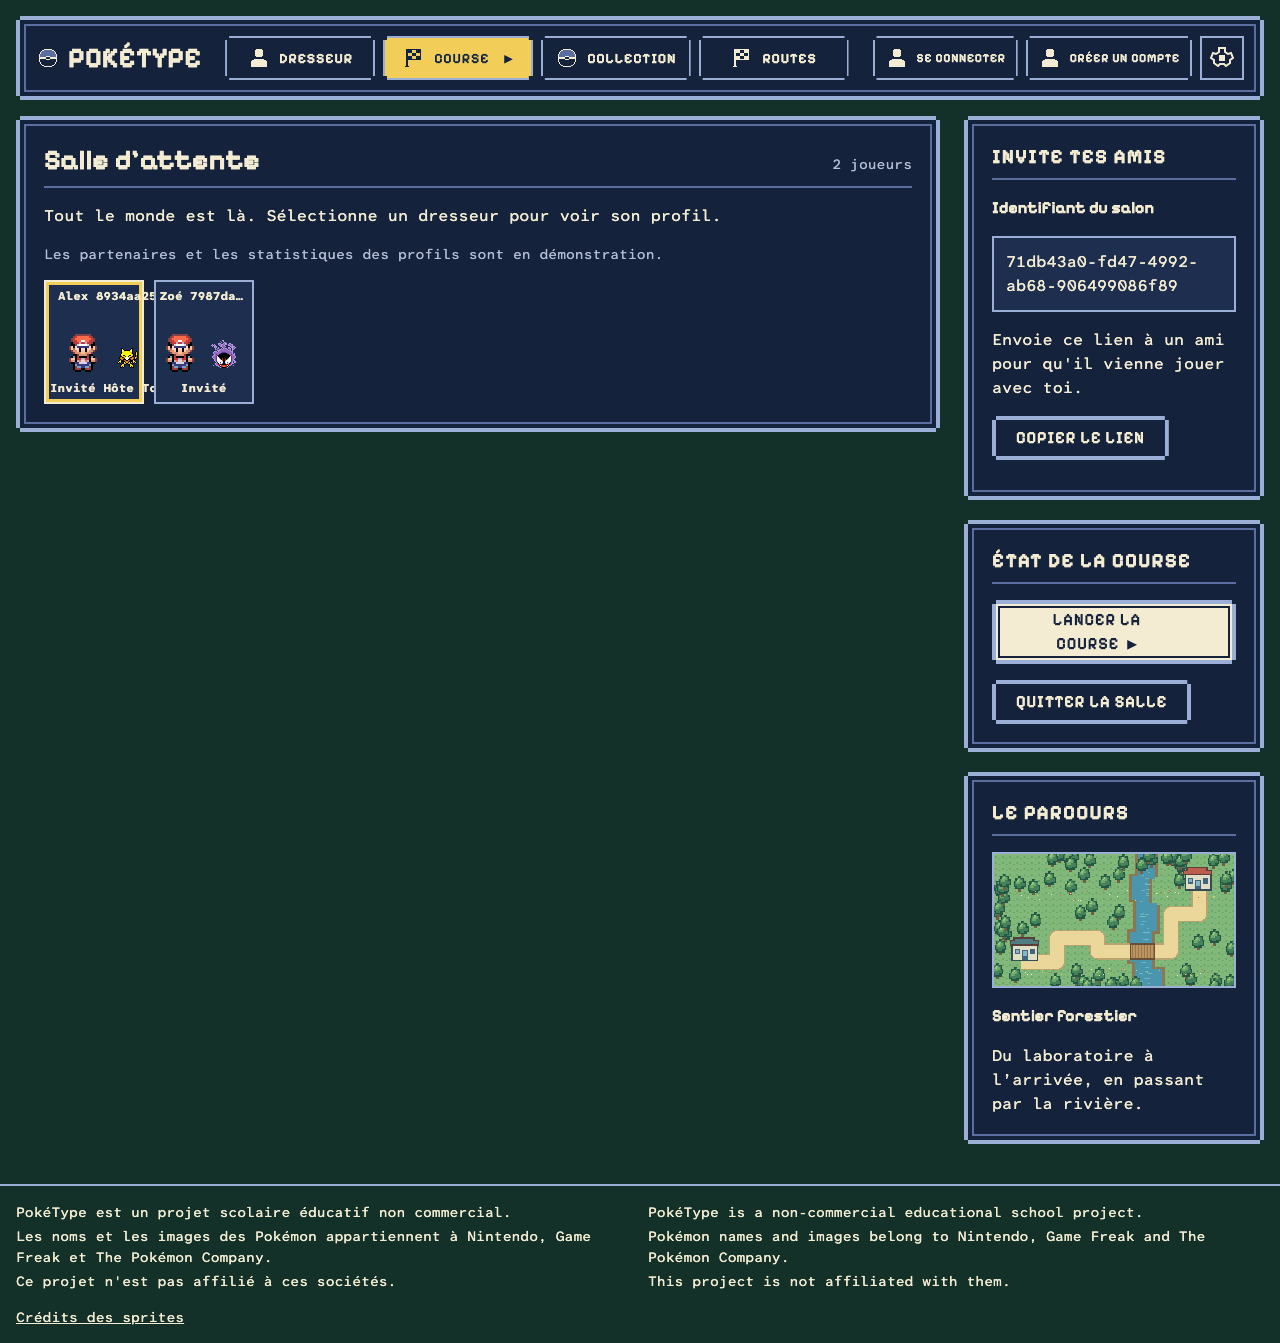
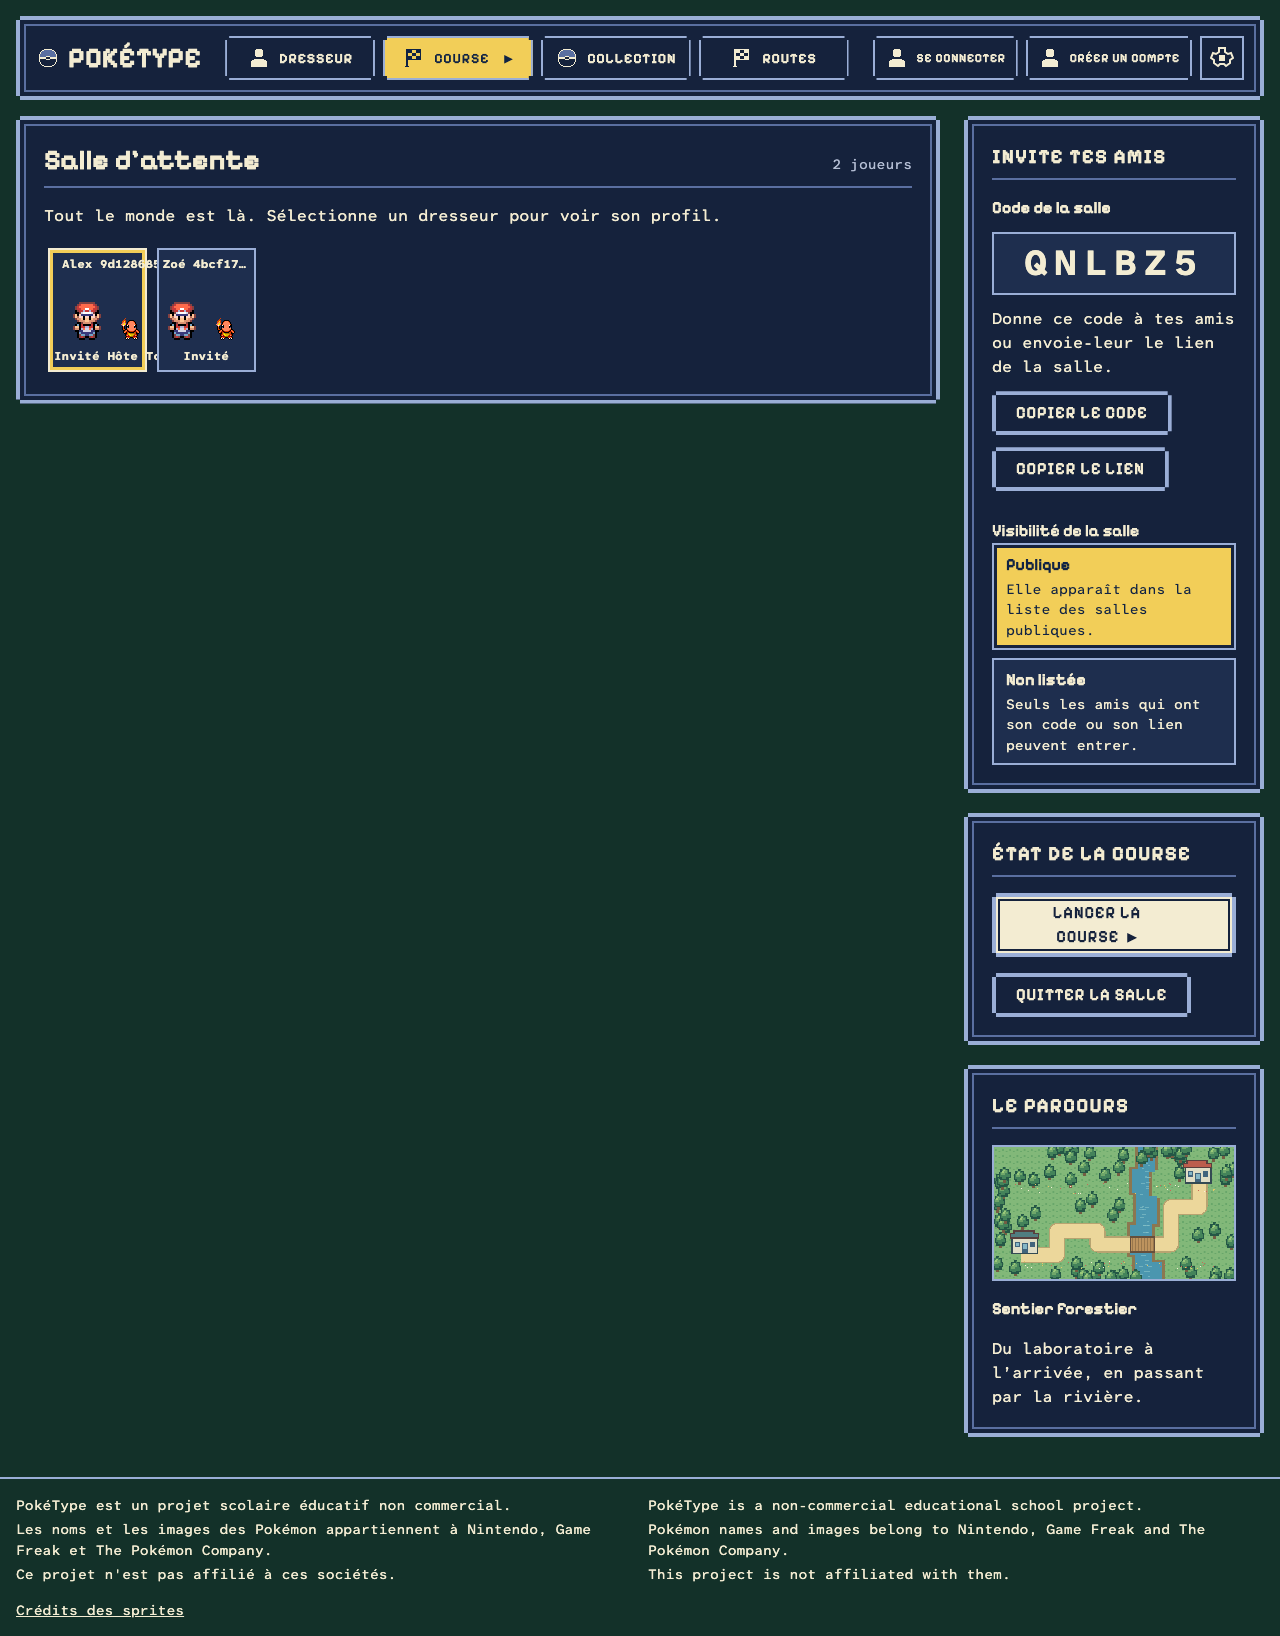
docs: real collection, badges and the ash seed

Changed region(s): [[0.0, 0.0, 1.0, 0.9769], [0.0, 0.8853, 0.4688, 1.0], [0.4375, 0.1832, 0.4688, 0.2137]]

diff --git a/public/assets/README.md b/public/assets/README.md
@@ -10,25 +10,25 @@ Most imported Walk and Idle animations are credited to CHUNSOFT with `Unspecifie
 
 The old `trainer.svg` and static `charmander.png` are retained as unused prior-review assets. They no longer render in gameplay.
 
-Until persisted starter selection exists, a deterministic mapping from room member key assigns the visual species. Every browser, roster, route, reload and podium uses that same mapping; it is cosmetic, not Pokémon ownership or progression.
+Each player's saved partner is the species shown for them on the roster, route, leader bar, results and podium; a race keeps the partner recorded at its start. A member without a starter shows no Pokémon.
 
 During a race, idle sheets are frozen. Only an increase in correct-character progress triggers the short walk cycle and route interpolation. Wrong characters, ignored inputs, unchanged poll responses, and waiting do not trigger motion. Camp, lobby, and podium sprites stay still. Race walk cadence scales with recent correct-character input (including batched remote progress), with a bounded playback rate; only races show motion controls. The credits gallery explicitly previews the available animations.
 
-The trainer dashboard adds the original `scenes/camp.svg` and six original vector badge icons under `badges/`. Unmodified 96×96 front sprites under `sprites/pokemon/front/` come from PokeAPI's Generation V Black/White sprite archive; their source template, IDs, and rights notes are recorded in `dashboardArtwork` in `src/assets/manifest.ts`.
+The trainer dashboard adds the original `scenes/camp.svg` and eight original vector badge icons under `badges/` (Volcano and Earth drawn for PokéType in the same 32×32 flat pixel style as the first six). Unmodified 96×96 front sprites under `sprites/pokemon/front/` come from PokeAPI's Generation V Black/White sprite archive; their source template, IDs, and rights notes are recorded in `dashboardArtwork` in `src/assets/manifest.ts`.
 
-Trainer statistics, recent races, badges, collection, XP and evolution examples live in `src/features/trainer/demo-profile.ts`. PC filtering and inspection work locally; equipping changes the demo partner and campsite, carries across the shared `/play` layout during tab navigation, and resets on reload. Trainer (`/play`), Collection (`/play/collection`), Race (`/play/race`) and Routes (`/play/routes`) are separate pages, using the shared `SiteHeader`/`SiteNav` and `SiteFooter` components. The real race creation action remains connected. The practice dialog is local and grants no XP or rewards. Replace these fixtures and the local equip state when adding persisted trainer progression.
+Trainer statistics, recent races, badges and the collection come from the server (`src/server/trainer/`). Choosing a partner in PC storage is saved on the server. Trainer (`/play`), Collection (`/play/collection`), Race (`/play/race`) and Routes (`/play/routes`) are separate pages, using the shared `SiteHeader`/`SiteNav` and `SiteFooter` components. The real race creation action remains connected. The practice dialog is local and grants no XP or rewards. `src/assets/racer-portraits.ts` (podium crops of all 151 front sprites) is generated by `npx tsx scripts/build-racer-portraits.ts`.
 
 ## Saved trainer appearance
 
 `sprites/trainers/overworld/` contains six unmodified 144×32 sheets from `pret/pokeemerald` (official Nintendo / Game Freak / The Pokémon Company artwork). `src/assets/trainers.ts` records the exact upstream paths. Each frame is 16×32; `OverworldTrainer` renders integer-scaled frames and applies the source game's palette-zero transparency rule at runtime. Camp uses a side-facing frame, while the chooser shows front-facing frames.
 
-Signup now redirects to `/choose-trainer`. The allowlisted selection is saved to `users.trainer_avatar` through the current authenticated session and displayed beside the demo buddy at camp. Migration `0008_overjoyed_catseye.sql` adds the nullable appearance column, so older accounts keep the default Red until they choose a trainer. Trainer appearance is persisted; collection/XP and buddy selection remain demo data. The dashboard appearance link lets existing accounts choose or change their sprite.
+Signup now redirects to `/choose-trainer`. The allowlisted selection is saved to `users.trainer_avatar` through the current authenticated session and displayed beside the partner at camp. Migration `0008_overjoyed_catseye.sql` adds the nullable appearance column, so older accounts keep the default Red until they choose a trainer. Trainer appearance, collection and partner are persisted; XP is not granted yet. The dashboard appearance link lets existing accounts choose or change their sprite.
 
-After confirming a trainer, `/play/choose-starter` offers Bulbasaur, Charmander and Squirtle in shuffled order. This step only equips the matching existing demo Pokémon in the shared client context before navigating to camp. It does not write starter ownership, collection entries, XP, rewards or drops; refreshing still resets the demo buddy. The camp's PC Storage text link has been removed.
+`/play/choose-starter` offers Bulbasaur, Charmander and Squirtle in shuffled order to every new player (guest or account) and saves the choice on the server as their first Pokémon and partner.
 
 ## Lobby roster
 
-The waiting-room UI displays live membership in a responsive roster (eight desktop columns, two mobile columns), verified with 32 test participants. Each card opens a keyboard-accessible profile dialog. Saved account trainer appearances are included in room snapshots; guests use Red. Buddy visuals still use the existing deterministic cosmetic assignment shared with races. Level, average WPM, accuracy, races and wins are explicitly labelled demo examples. No collection ownership or profile-stat backend is implied.
+The waiting-room UI displays live membership in a responsive roster (eight desktop columns, two mobile columns), verified with 32 test participants. Each card opens a keyboard-accessible profile dialog. Saved account trainer appearances are included in room snapshots; guests use Red. Each card shows the member's saved partner; the profile dialog shows the partner's level and the member's real races, wins, average WPM and accuracy (a dash until a race is ranked).
 
 The invitation panel displays the full existing room UUID and the working copy-invite-link control. No short-code lookup service or new capacity limit was introduced. The 32-player test checks roster rendering and starting a race, not sustained multiplayer load capacity.
 
@@ -36,7 +36,7 @@ The invitation panel displays the full existing room UUID and the working copy-i
 ## 151-species catalog and achievement preview
 
 - `/play/pokedex`: paginated searchable Kanto catalog, ownership/evolution/legendary filters, source-backed evolution predecessors, and opt-in race animation previews. All species have native front artwork plus directional idle and walk metadata, including evolved forms and five legendary/mythical species.
-- `/play/achievements`: eight proposed badge milestones and five legendary goals in `src/config/achievements.ts`. Progress is explicitly sample data. No rewards, ownership, achievements or badges are persisted or granted yet.
+- `/play/achievements`: the eight badge milestones (`gameConfig.badges`, granted at race settlement) and five legendary goals in `src/config/achievements.ts`, with the trainer's real progress. Legendary rewards are not granted yet.
 - `scripts/data/kanto.json`: localized names and Kanto evolution predecessors from PokeAPI CSVs. Species #001–#151 only; predecessors outside Kanto are omitted.
 - `python3 scripts/import-kanto-sprites.py` imports unmodified sheets and front artwork. `python3 scripts/build-sprite-metadata.py` validates dimensions, frame timing and attribution, handles `CopyOf`, and rebuilds TypeScript/CSS/catalog names.
 - `scripts/data/sprite-credit-names.txt` resolves upstream contributor IDs. Original per-species credits and `SOURCE-LICENSE.md` remain available locally. Community asset terms do not relicense official game artwork.

diff --git a/docs/DECISIONS.md b/docs/DECISIONS.md
@@ -306,3 +306,16 @@ PokéType is a non-commercial school project made for educational purposes. It h
 - The switch (`src/features/theme/`) reads `data-theme` itself as its live state, so it works for the visit when storage throws; other tabs follow through the `storage` event.
 - Tailwind v4 compiles `light-dark()` pairs in `@theme` to the `--lightningcss-light/-dark` toggle (checked in the built CSS), driven by `color-scheme`; no fallback block is needed.
 - A wrong character is marked with a wavy underline against the caret's straight one, so it is told apart without colour.
+
+## Starter, collection and partner (real collection)
+
+- Ownership is keyed by guest id (`owned_pokemon.guest_id`, `earned_badges.guest_id`): an account already links to its guest row, so opening an account carries the guest's collection and badges with no copy, and logging into another account switches to that account's guest (H2: no merge).
+- `owned_pokemon` is unique per (guest, species): a duplicate drop will convert to XP later (PROGRESSION.md). A partial unique index allows exactly one partner. `chooseStarter` and `choosePartner` lock the guest row, so a double submission still saves one starter.
+- Starter first: `requireStarter` (`src/features/trainer/starter-gate.ts`) runs in guest entry, the room page, "Créer une salle", "Faire une course" and "Rejoindre avec un code", and the hub layout loads the trainer and sends a player without a partner to `/play/choose-starter`. The destination travels as `next` (`hub`, `room:<id>`, `find-race`, `create-room:<visibility>`), parsed strictly in `src/domain/starter-destination.ts`; anything else falls back to the hub, so the parameter can never redirect off the known destinations. A wrong room code is still refused before the starter screen. The room commands themselves stay ungated, so legacy members without a starter show no Pokémon instead of a made-up one.
+- The hub pages moved into the `(hub)` route group (URLs unchanged) so the starter screen sits outside the gate. After choosing a trainer appearance, an account that already has a starter goes straight to the hub.
+- The starter screen is a plain form: without JavaScript the confirm button stays active and the required radio asks for a choice (an inactive-looking button could never be lifted without scripts).
+- Snapshot: each member carries `partner` (species or null) and, in the waiting phase only, `profile` (partner level, races, wins, average WPM, accuracy) for the lobby dialog; the strict parser checks both. The profile costs one grouped query per waiting-room read, never during a race.
+- The type filter and type chips of the demo PC storage were removed: species data has no types yet. Evolution chains show the family from Pokédex data without evolution levels, which do not exist yet; unowned forms stay "?".
+- Badges are granted inside `recordResults` of the settlement transaction from the count of settled races the racer finished to the end; the (guest, badge) primary key makes the grant exactly once and a repeated settlement a no-op.
+- Seed: Maya and Leo (repository test passwords) stay local unless `SEED_ACCOUNTS=allow`, now with a starter each. `ash` is seeded whenever `SEED_ASH_PASSWORD` is set, including against production; an existing ash keeps its password and only receives what it lacks. CI generates a throwaway password for each run.
+- Podium crops for all 151 species are generated by `scripts/build-racer-portraits.ts` from the front sprites.

diff --git a/README.md b/README.md
@@ -15,8 +15,12 @@ Requires Node 24 (`nvm use` reads `.nvmrc`), npm, and PostgreSQL 18.
    - Local PostgreSQL (for example Homebrew): run `createdb poketype` and `createdb poketype_test`, then edit both URLs in `.env` to match your role, for example `postgres://YOUR_USER@localhost:5432/poketype`.
 4. Start Soketi, the local push server: `docker compose up -d soketi` (port 6001). It reads the `PUSHER_*` values from `.env`. Without it the app still works by polling, but the push e2e specs fail, and CI refuses to run without `PUSHER_*`. To run without push, remove every `PUSHER_*` line from `.env`; setting only some of them fails the build.
 5. `npm run db:migrate` and `npm run db:migrate:test`
-6. Optional: `npm run db:seed` creates the demo accounts Maya and Leo. Their test passwords are in `scripts/seed-accounts.ts`.
+6. Optional: `npm run db:seed` creates the demo accounts Maya and Leo (each with a starter; test passwords in `scripts/seed-accounts.ts`) and, when `SEED_ASH_PASSWORD` is set in `.env`, the test account `ash` with all 151 Pokémon and all eight badges. The seed is safe to run again.
 7. `npm run dev`, then open http://localhost:3000.
+
+### Test account `ash` in production
+
+`ash` is a normal account holding every Pokémon and badge, for demonstrations. To create it in the deployed database, set `SEED_ASH_PASSWORD` (8 to 128 characters) in Vercel and run the seed once against the production URL: `DATABASE_URL=<production url> SEED_ASH_PASSWORD=<password> npm run db:seed`. Against a remote database the seed creates only ash, never Maya or Leo. Keep the password out of Git.
 
 ### Production push service
 
@@ -36,7 +40,7 @@ The deployed app needs a Pusher Channels app; nothing in the repository creates 
 | `npm test` | Vitest unit tests |
 | `npm run db:generate` | Generate a migration after editing `src/server/db/schema.ts` |
 | `npm run db:migrate` / `npm run db:migrate:test` | Apply migrations to the development / test database |
-| `npm run db:seed` / `npm run db:seed:test` | Create the demo accounts Maya and Leo if missing (local databases only unless `SEED_ACCOUNTS=allow`); the e2e run seeds the test database itself |
+| `npm run db:seed` / `npm run db:seed:test` | Create the demo accounts Maya and Leo if missing (local databases only unless `SEED_ACCOUNTS=allow`) and `ash` when `SEED_ASH_PASSWORD` is set; the e2e run seeds the test database itself |
 | `npm run test:e2e` | Playwright tests against the test database (run `db:migrate:test` and, for CI parity, `build` first; set `CI=1` to use `next start`; `E2E_PORT` sets the app port, default 3100; the outage and push-fallback tests start extra servers on the next ports; Soketi must be running) |
 
 CI (`.github/workflows/ci.yml`) runs the same steps on every pull request against a fresh PostgreSQL and Soketi.

diff --git a/docs/PROGRESSION.md b/docs/PROGRESSION.md
@@ -126,3 +126,13 @@ The requested achievement-based legendary direction is represented by proposed g
 | Mew | 100 distinct collected species and 8 badges |
 
 Eight proposed badge milestones: finish 1, 5, 10, 25, 50, 75, 100 and 150 races. These values are tunable proposals; they do not alter typing speed or race ranking. A future server implementation must evaluate verified race results and grant each achievement/reward exactly once per account. The frontend's sample metrics must never authorize grants.
+
+## Saved collection — 2026-10-01
+
+- Starter: on first entry every player, guest or account, picks Bulbasaur, Charmander or Squirtle (`gameConfig.progression.starterDexes`). The server saves it once at level 5 with 0 XP as the partner and refuses any other species or a second starter. Creating a room, "Faire une course", a room link, a room code and the trainer hub all send a player without a starter to `/play/choose-starter` first, then carry on to where they were going.
+- Collection: one row per species per guest identity (`owned_pokemon`), so an account keeps the collection its guest built (the account reuses the guest id, inside the account-creation transaction). Logging into an existing account shows that account's own collection; the guest's is not merged (H2). Exactly one partner per trainer, enforced by a partial unique index.
+- Partner: chosen among owned Pokémon in PC storage and saved on the server. Each race records each participant's partner at the start (`race_participants.partner_dex`), so the race map, leader bar, results, podium and past results keep the Pokémon that raced. Species never change speed.
+- Statistics come from settled races only: races, wins, average WPM and accuracy average the ranked results; the hub lists the last three races. XP is not granted yet, so its column shows "—" and levels stay at 5.
+- Badges: the eight badges (`gameConfig.badges`, adding Volcano and Earth to the first six) are granted once, inside the race settlement, at 1, 5, 10, 25, 50, 75, 100 and 150 races finished to the end. A racer stopped by the time limit or who abandoned earns no badge from that race. A missed milestone catches up at the next finished race.
+- Legendary goals show the trainer's real progress; granting the legendaries is still to build.
+- Test account: `ash` (normal rights) holds all 151 species with Pikachu as partner and all eight badges, created by the seed when `SEED_ASH_PASSWORD` is set.

diff --git a/docs/REQUIREMENTS.md b/docs/REQUIREMENTS.md
@@ -62,3 +62,6 @@ On implementation, add a status and evidence link per ID: Not started / In progr
 | JEU-2 | In progress: blocked entry built without penalties (#16), accents and dead keys judged as one character (#22); free entry (#32) and ranking penalties not built | `tests/unit/typing-progress.test.ts`, `tests/e2e/type-passage.spec.ts`, `tests/e2e/french-accents.spec.ts` |
 | TXT-2 | In progress: accents and ç type, score and render correctly, built-in passages include é è à ù ç ê (#22; keyboards simulated in Chromium, none checked by hand, see `docs/keyboards.md`); word count, shuffled words and practised characters not built (#31, #35) | `tests/unit/typing-progress.test.ts`, `tests/unit/composition-guard.test.ts`, `tests/unit/passages.test.ts`, `tests/e2e/french-accents.spec.ts` |
 | TXT-1 | In progress: identical initial text for all (#15); host text settings not built (#31) | `tests/e2e/start-race.spec.ts` (same passage) |
+| STAT-2 | In progress (partial): the hub shows races, wins, average WPM and accuracy from settled results, and the last three races (place, WPM); the lobby profile shows each player's real totals. Complete history, WPM trend and comparability of settings not built | `tests/e2e/trainer-progress-command.spec.ts` (statistics), `tests/e2e/real-collection.spec.ts` (hub after a race) |
+| POKE-1 | In progress: every player (guest or account) picks Bulbasaur, Charmander or Squirtle before any room (user decision replacing the pool of ten), saved on the server at level 5 / 0 XP as partner; any owned Pokémon can then be chosen as partner and races for its trainer everywhere | `tests/e2e/trainer-progress-command.spec.ts`, `tests/e2e/real-collection.spec.ts`, `tests/unit/starter-destination.test.ts` |
+| POKE-5 | In progress: real partner card, collection, Pokédex, statistics, recent races, badges granted at finished-race milestones and legendary-goal progress (display only); XP, evolution and race rewards not built | `tests/e2e/trainer-dashboard.spec.ts`, `tests/e2e/pokedex.spec.ts`, `tests/e2e/ash-account.spec.ts` |
